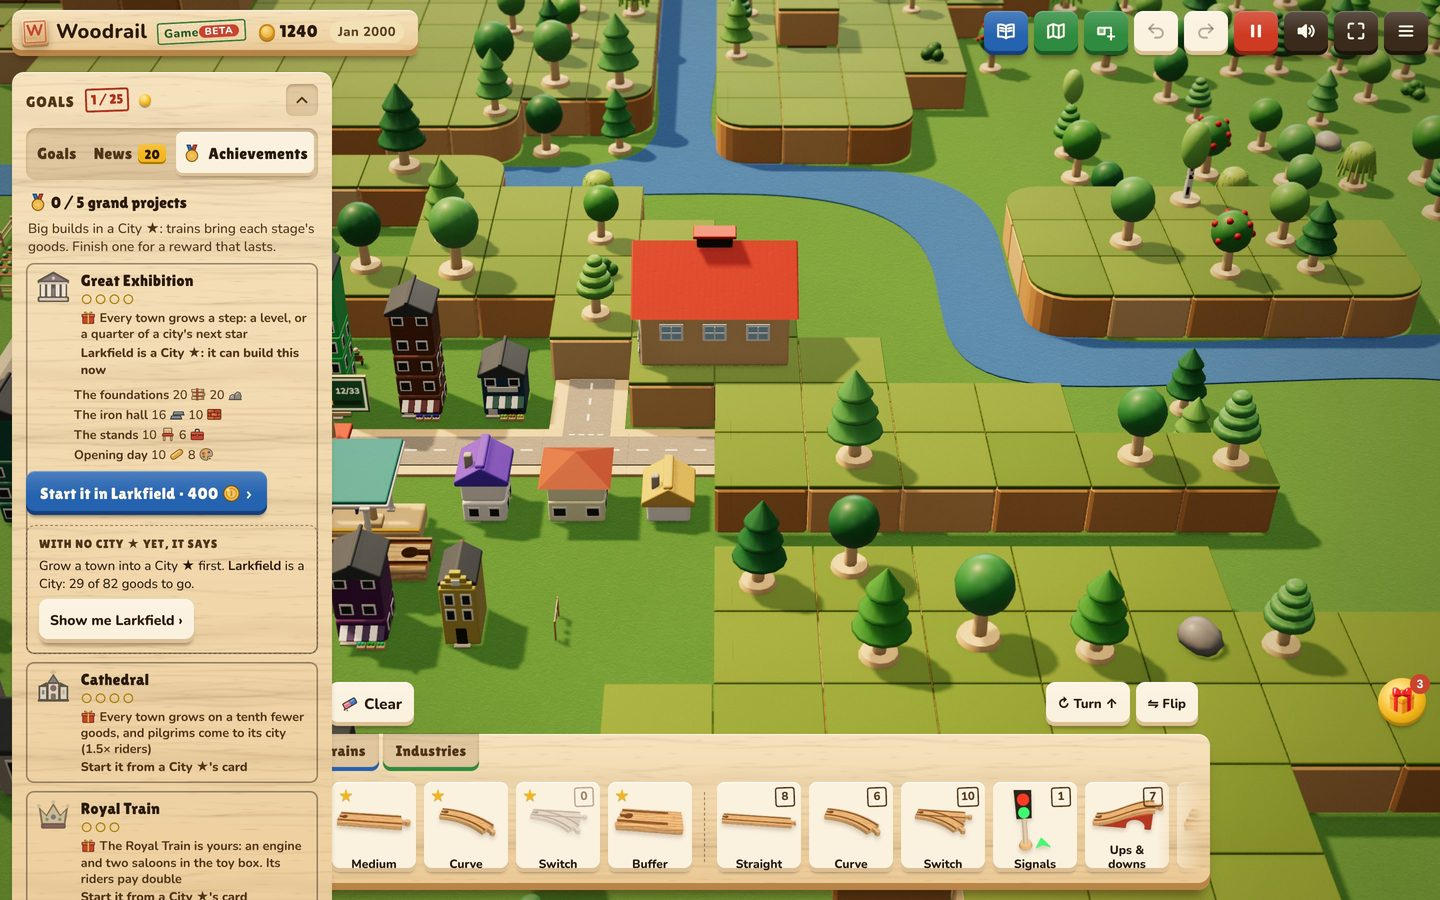
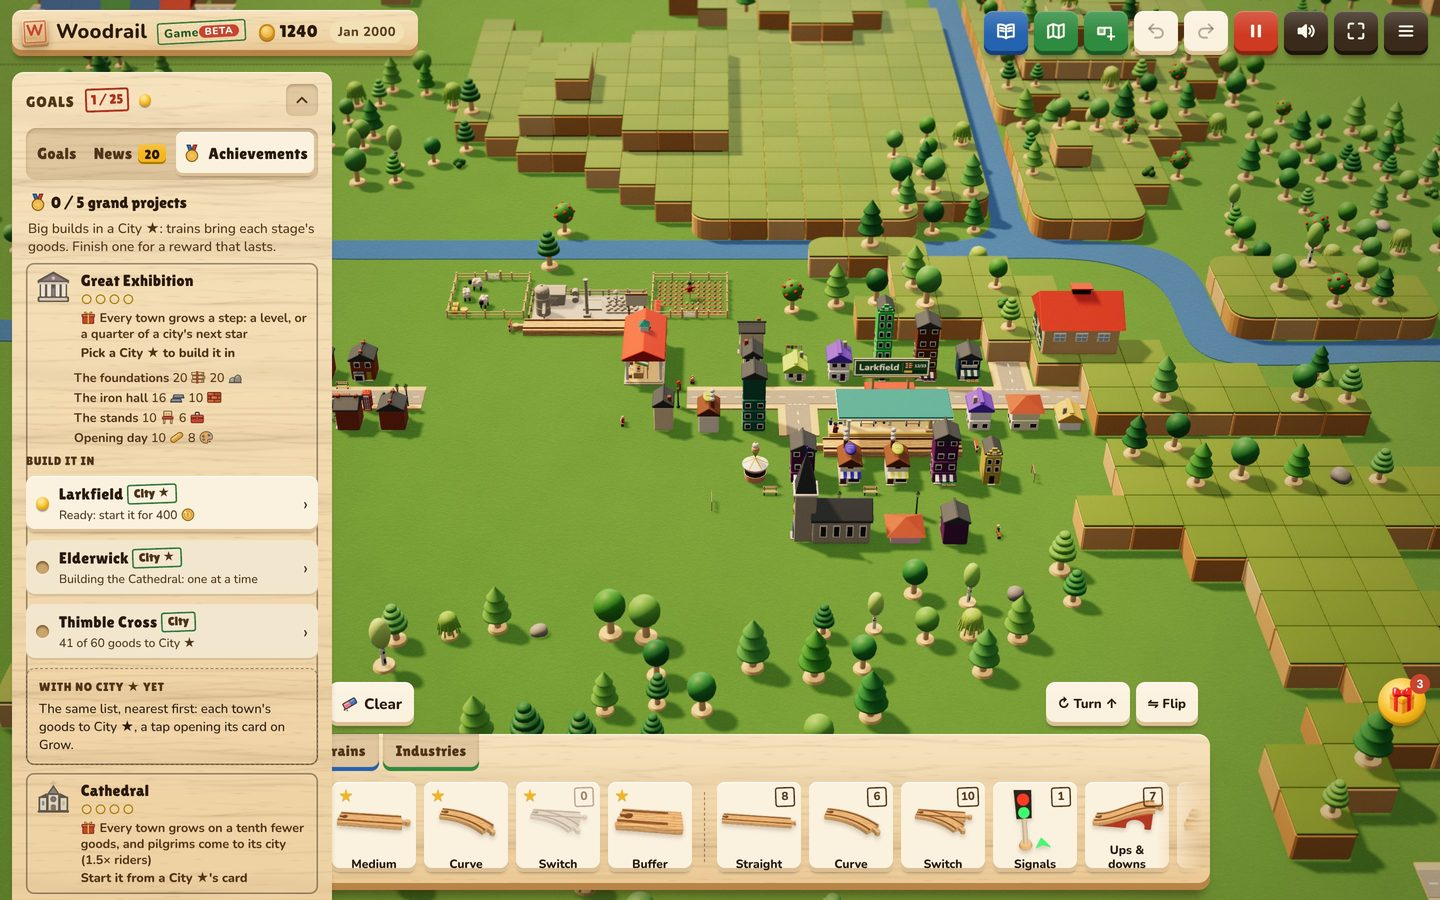
City card proposals: the Journal lists the cities to build in, not one picked for the player; B picked
Claude-Session: https://claude.ai/code/session_0121cKbiM3TMJfMnozfNuRfw

diff --git a/tools/shots/city-card-mocks/mock.css b/tools/shots/city-card-mocks/mock.css
@@ -117,3 +117,6 @@
 .mk-label { position: fixed; z-index: 60; padding: 5px 10px; border-radius: 6px; font: 800 13px/1.25 "Woodrail Icons", Nunito, sans-serif; color: #fff; background: rgba(28, 20, 12, 0.88); max-width: 320px; }
 .mk-callout { display: flex; flex-direction: column; gap: 6px; padding: 10px 12px; border-radius: 9px; border: 1.5px dashed var(--pencil); font-size: 13px; }
 .mk-callout .t { font-family: var(--display); font-size: 12px; letter-spacing: 0.06em; text-transform: uppercase; color: var(--wood-ink-soft); }
+.mk-city { min-height: 56px; }
+.mk-city .nm b { font-size: 16px; }
+.mk-city > i { flex: none; }

diff --git a/docs/agents/city-card-proposals.md b/docs/agents/city-card-proposals.md
@@ -78,29 +78,29 @@ A tap on a town gives a **short card**: the header, Next up, three doors (Grow "
 - **For:** the quickest look at a town while playing, and on desktop everything at once, using the width.
 - **Against:** two surfaces to build and keep in step, and one more tap to reach anything. It's the most work, and the phone board is B anyway.
 
-## 3. The Journal: say what Show me does, and land on it
+## 3. The Journal: the player picks the city, and lands on its Start
 
 `city-card-journal-phone-1-button.jpg`, `city-card-journal-phone-2-landed.jpg`, and the same for `desktop`
 
-The achievement's line and button name the town and the action:
+The Journal is about the project, so the player picks *where* to build it, not the game. (The first draft named one city for them, "Start it in Larkfield", which made a choice for the player out of maybe several.) An open achievement lists **Build it in**: a maple row for each town that is or is nearly a City ★, each with its level stamped and what it can do:
 
-| The map | Its line | Its button |
+| The town | Its row says | Its mark |
 |---|---|---|
-| A City ★ that can start it now | Larkfield is a City ★: it can build this now | **Start it in Larkfield · 400 🪙 ›** (blue, as Show me is) |
-| A City ★, not enough coins | Larkfield can build it with 400 🪙 (you have 250) | **Show me Larkfield ›** |
-| A City ★, busy with another project | Larkfield is building the Cathedral; one at a time | **Show me Larkfield ›** |
-| No City ★ yet | Grow a town into a City ★ first. Larkfield is a City: 29 of 82 goods to go | **Show me Larkfield ›** (lands on its Grow tab) |
-| Under way | Stage 2 of 4 in Larkfield: the iron hall | **Show me the site** (as now) |
+| A City ★ that can start it now | Ready: start it for 400 🪙 | a yellow peg (ready); listed first |
+| A City ★ short of coins | Needs 400 🪙 (you have 250) | a hole |
+| A City ★ building another project | Building the Cathedral: one at a time | a hole, flatter row |
+| A City, not yet ★ | 41 of 60 goods to City ★ | a hole, flatter row |
+| Where it's under way | Stage 2 of 4: the iron hall | a blue peg; the only row, with Show me the site |
 
-With two or more City ★s, the button picks one that can start it now: no project under way there, and the most coins' worth of room.
-
-The tap closes the Journal on a phone, flies to the city and opens its card on Projects with that project picked. Its **Start** button is ringed in blue (DESIGN.md: a ring marks the picked or the ready), gone at the next tap. It never starts the project by itself: the player sees the price and the stages, then taps Start.
+With no City ★ on the map, the list is the same towns nearest to it, so the line is never a dead end. A tap on a row closes the Journal on a phone, flies to that town and opens its card on **Projects** with this project picked: its **Start** ringed in blue (DESIGN.md: a ring marks the picked or the ready) if it can start, or the reason it can't. A town that isn't a City ★ yet opens on **Grow** instead. A tap never starts the project by itself: the player sees the price and the stages on the card, then taps Start.
 
 ## 4. Recommendation
 
 **B, tabs**, with Next up deciding which tab the card opens on, and the Journal fix in §3.
 
-- It answers the note directly: every feature is named at the top of the card (Grow, Build, Projects, Station), and the Journal's button lands on the Start it names.
+**Picked: B** (the user, 2026-11-09), with the Journal's city list in §3.
+
+- It answers the note directly: every feature is named at the top of the card (Grow, Build, Projects, Station), and the Journal's city rows land on the Start of the city picked.
 - It follows the house style: the groove switch, the research ticket, one painted block per panel.
 - It's one surface on both screens. The card's size and position stay as they are, so the e2e suites that open town cards need their selectors moved but not their flow. The town ledger's data (`game/town-ledger.ts`), places (`game/place-row.ts`) and grand row (`game/grand.ts`) stay as they are; only `ui/town-ledger.ts`, `ui/places-row.ts`, `ui/grand-row.ts` and the card's frame change.
 - It stays cheap: a tab redraws only when its key changes, as the rows do now, and nothing runs per frame.
